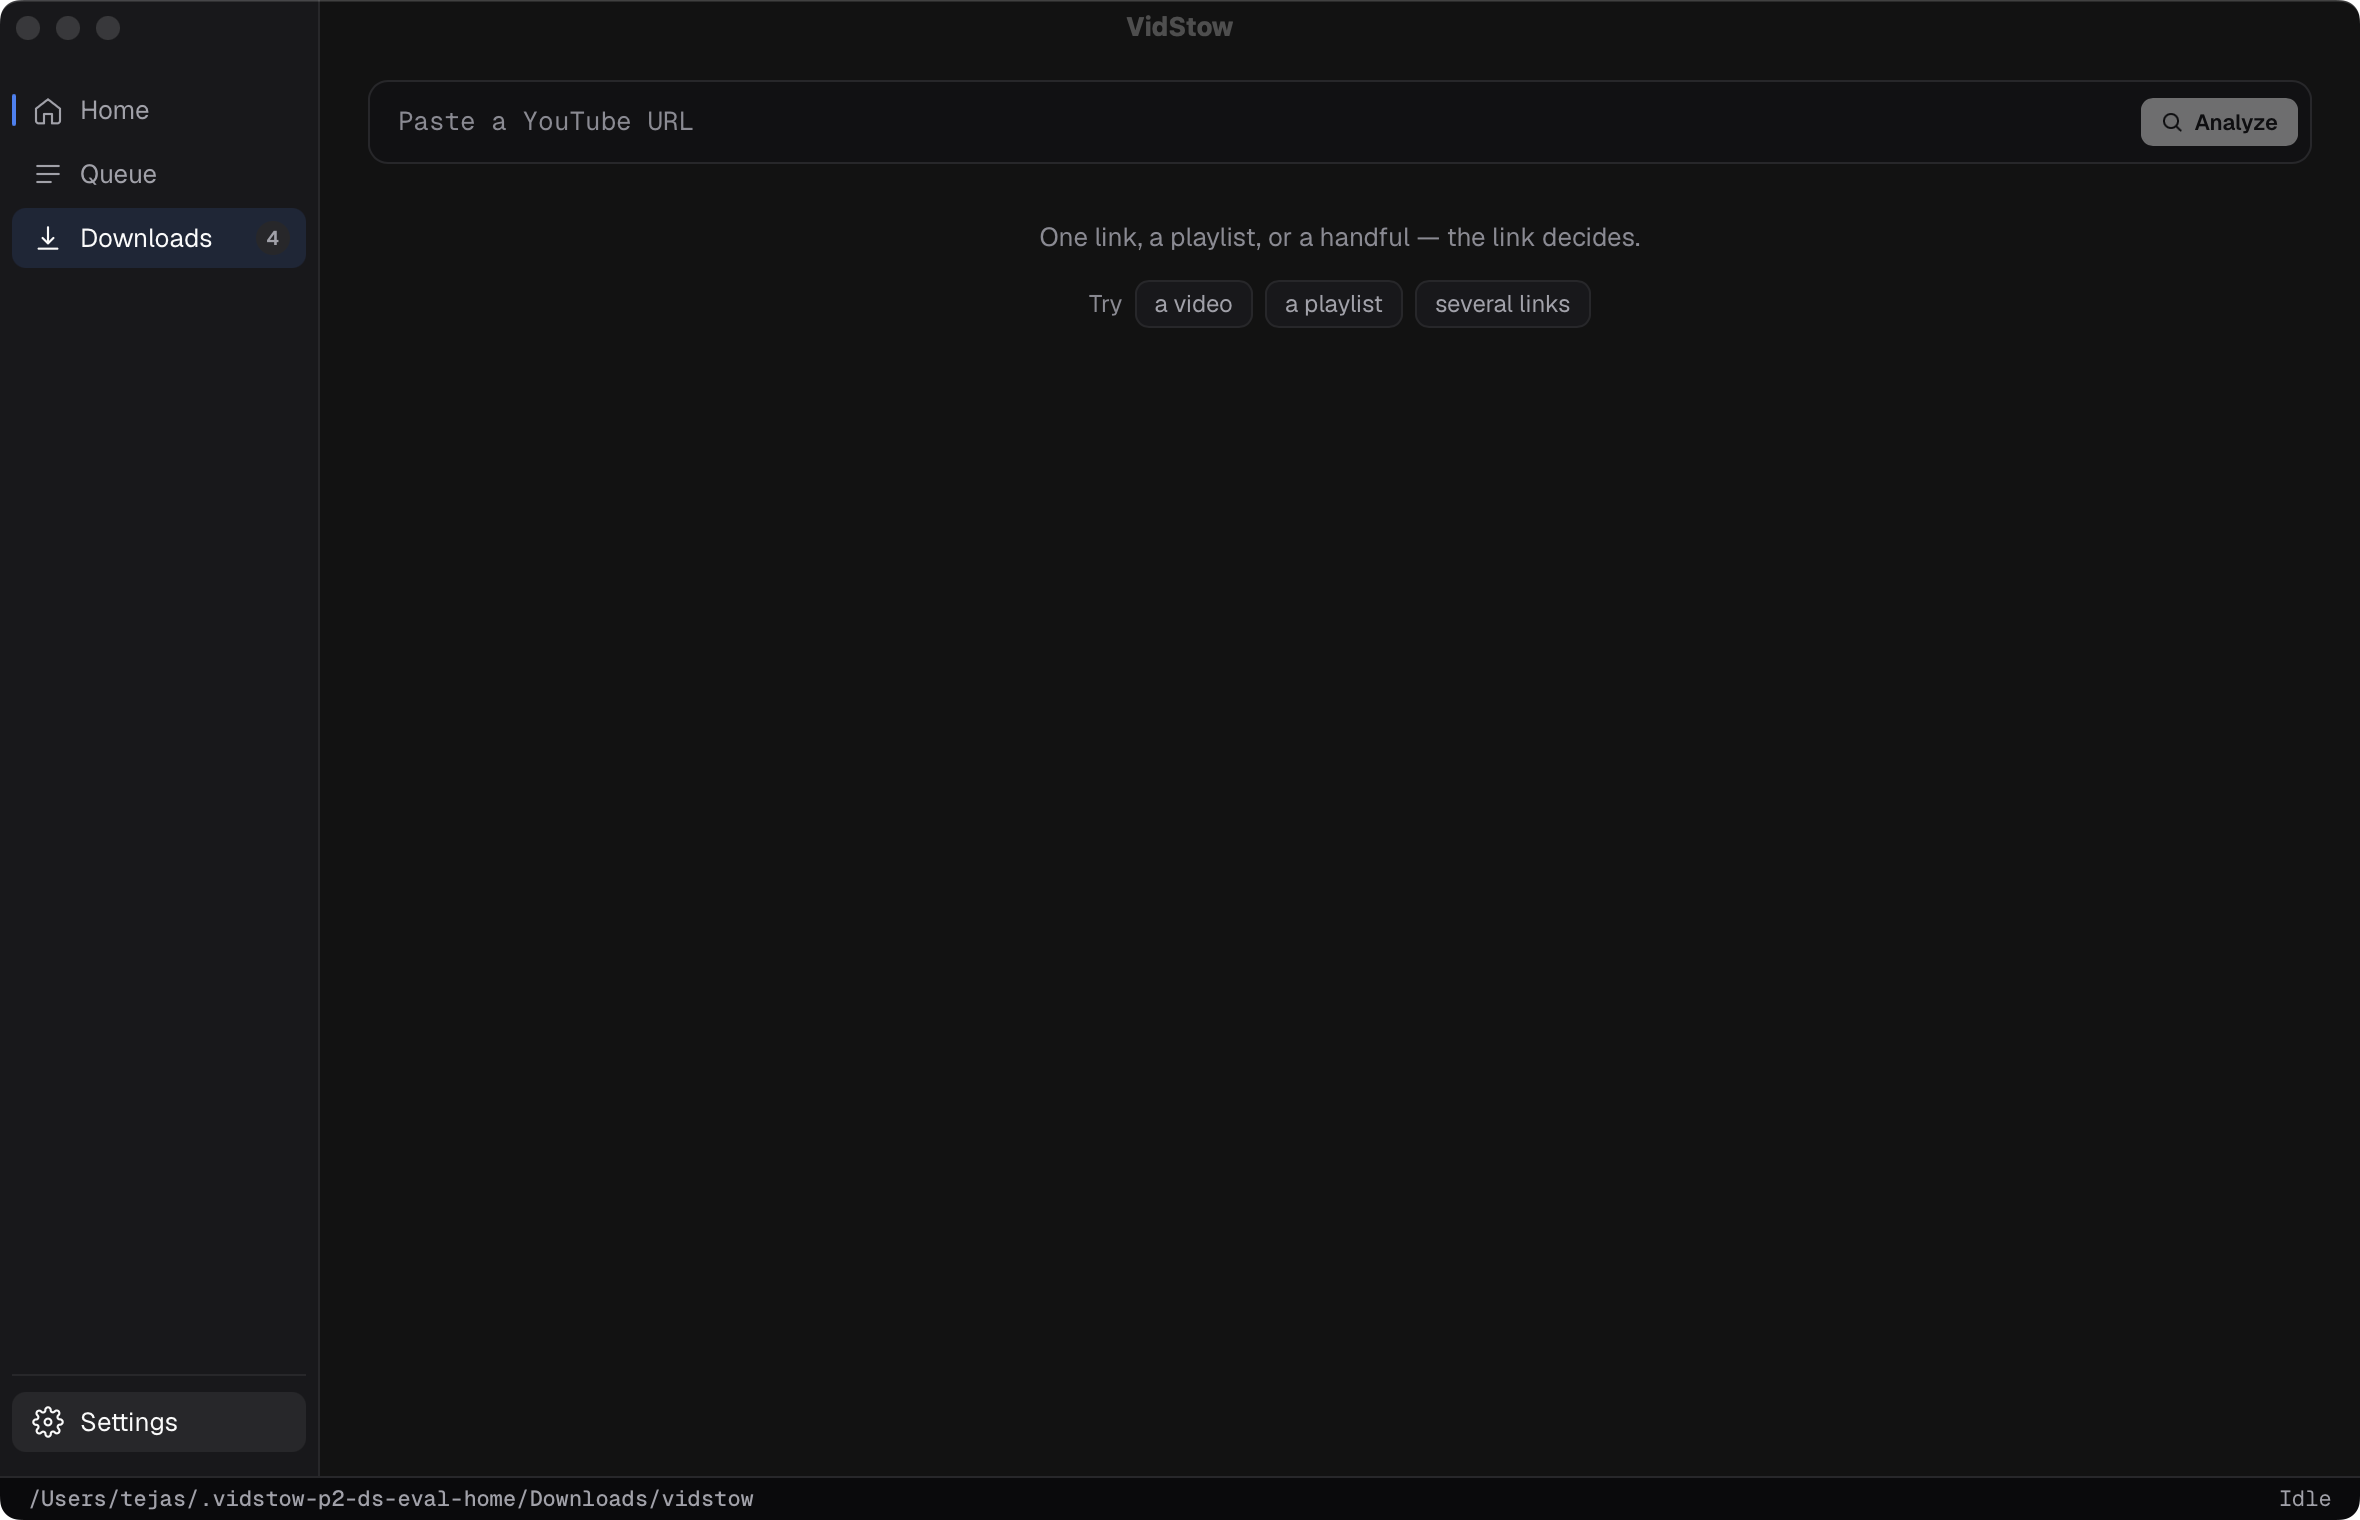
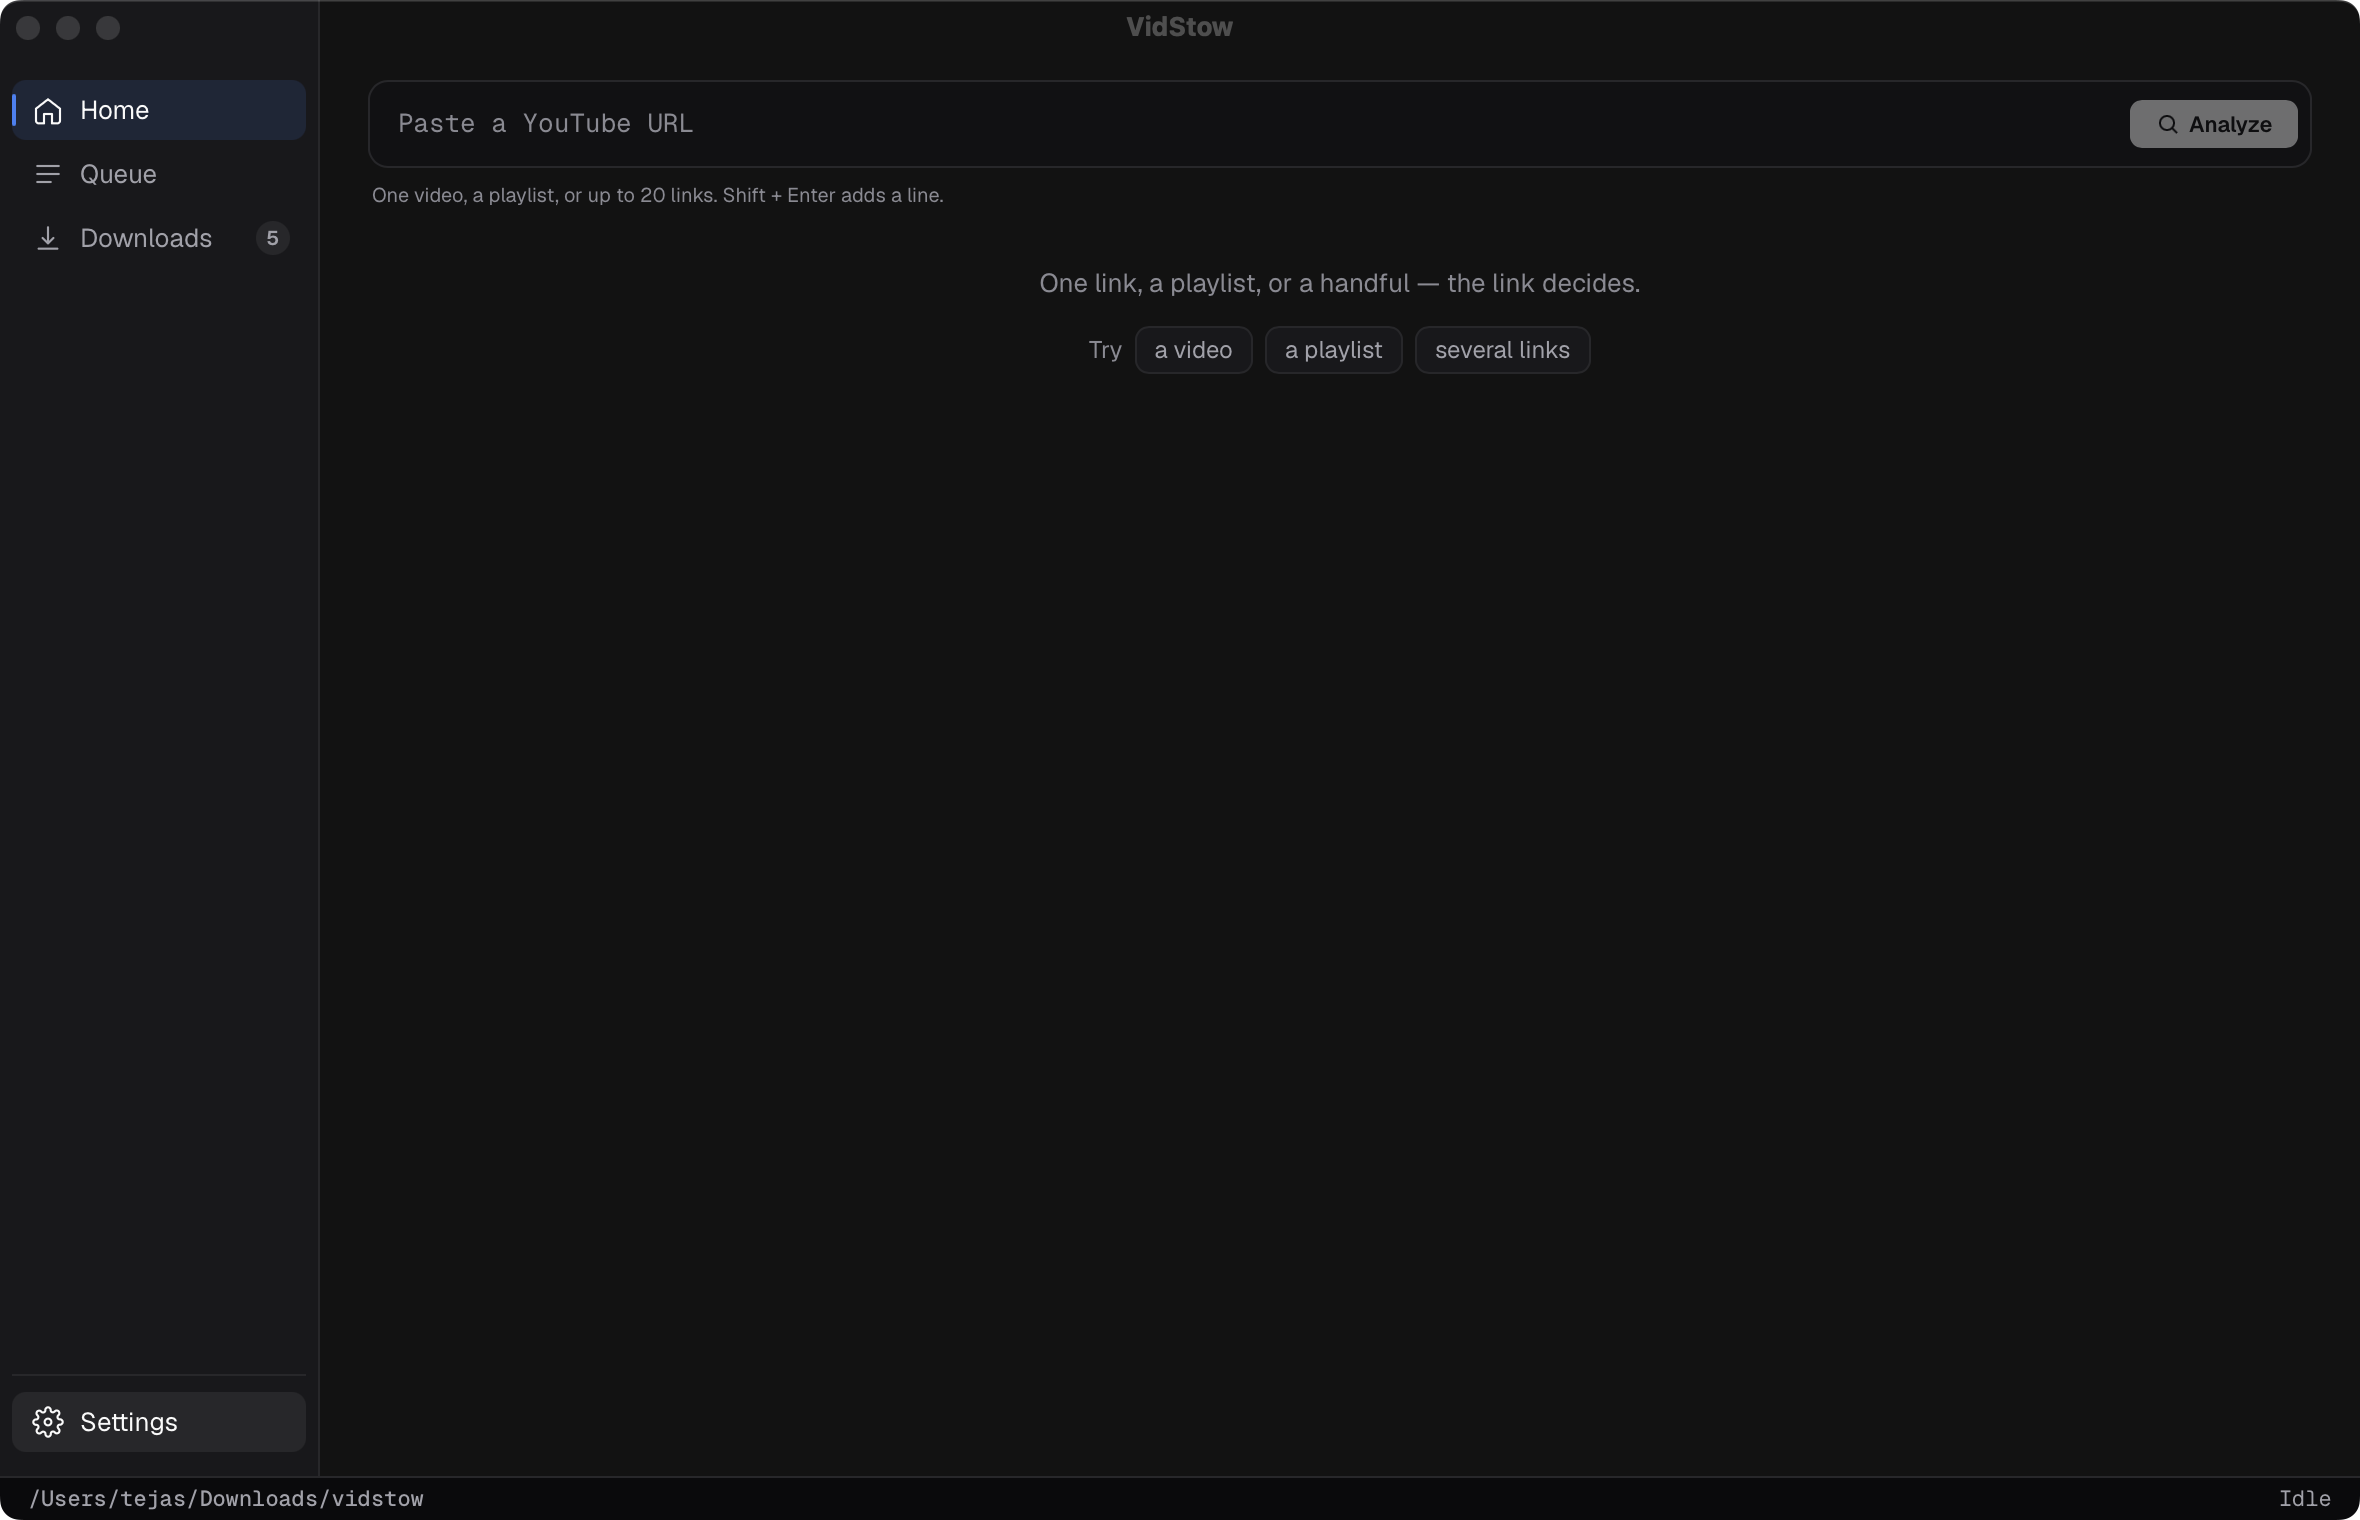
Update the README for the zinc window, File and Embed, and Settings language.
The feature list and screenshots now match Home, Queue, Downloads, and Settings as they ship, including inspector rows and no confirm-before-download switch.

diff --git a/README.md b/README.md
@@ -13,7 +13,7 @@ A local desktop application built with Go, Wails, and Svelte.
 [![Go](https://img.shields.io/badge/Go-1.25-00ADD8?logo=go&logoColor=white)](go.mod)
 [![Wails](https://img.shields.io/badge/Wails-v2-CB2D3E)](https://wails.io/)
 [![Svelte](https://img.shields.io/badge/Svelte-5-FF3E00?logo=svelte&logoColor=white)](frontend/package.json)
-[![Engine](https://img.shields.io/badge/youtube__dlp-pinned-20232A)](go.mod)
+[![Engine](https://img.shields.io/badge/ytdlp--go-v0.3.0-20232A)](go.mod)
 
 [Download](#download) · [Features](#features) · [Screenshots](#screenshots) · [Project status](#project-status) · [Run locally](#run-locally) · [How it works](#how-it-works) · [Contributing](CONTRIBUTING.md)
 
@@ -58,42 +58,54 @@ verification details.
 
 ## Features
 
-- **Analyze before downloading** — inspect the title, thumbnail, duration,
-  channel, and available output choices.
-- **Flexible link input** — paste, type, or drag and drop a public YouTube video,
-  Short, or playlist URL. Links containing both a video and a playlist can be
-  reviewed as either.
-- **Focused output choices** — choose best available video, capped resolutions,
-  original audio, or MP3 when the analyzed media supports those choices.
+The window is a dark zinc workstation. **VidStow** lives in the native title
+bar. The sidebar is **Home**, **Queue**, and **Downloads**, with **Settings**
+at the bottom. About is the colophon on Settings, not a rail item.
+
+- **One paste field on Home** — paste, type, or drop a public YouTube video,
+  Short, or playlist URL. Compact **Try** chips fill a video, a playlist, or
+  several links. **Analyze** is the only submit. While it runs, **Analyze**
+  becomes **Stop**. After 12 seconds Home notes the check is taking longer.
+  A link that is both a video and a playlist asks which one to open.
+- **Output, Subtitles, and In the file** — after Analyze, the card shows format
+  chips plus **Off** / **File** / **Embed**. **File** saves a caption next to
+  the video. **Embed** writes captions inside the video, so the folder still
+  shows one MP4. **In the file** is title and channel, artwork, and chapters.
+  Audio greys **Subtitles** in place and labels the row **Video only**. Artwork
+  embed is skipped for now.
+- **Settings default language** — **Video files** can set **Subtitles on new
+  adds** and a **Default subtitle language** (**English or first available** or
+  a named language such as **Spanish**). That choice prefills Home. On a
+  playlist or batch, a title without the language on the card uses the Settings
+  language, then English or first available. VidStow does not write two caption
+  files for one video.
 - **Playlist review** — select up to 500 available entries, apply a bounded
-  index range, and admit the collection as one expandable parent with individual
-  jobs. Playlist search is not on this list yet.
-- **Reliable batch downloads** — review 2–20 individual video or Short URLs at
-  once, identify invalid and duplicate lines, then atomically admit every ready
-  item under one durable expandable queue parent.
-- **FIFO queue** — configure 1–10 concurrent downloads; the default is 2.
-  Occupancy is shown beside the Queue title and in the status bar.
+  index range, and add the collection as one expandable parent. **Download**
+  turns into **Adding** so a second click cannot queue the same list twice.
+  Playlist search is not on this list yet.
+- **Batch of 2–20 links** — review individual video or Short URLs together,
+  see invalid and duplicate lines, then add every ready item under one parent.
+  More than 20 URLs stays on Home.
+- **Queue** — 1–10 concurrent downloads; the default is 2. In progress, Needs
+  attention, and canceled attempts are separate sections. Finished files live
+  on **Downloads**. Rows show quality and only the actions the app currently
+  allows. An HTTP 429 says **YouTube asked VidStow to slow down**, not that the
+  connection dropped.
 - **Continue in-progress work** — ordinary quit leaves an in-progress download
   running. It continues the next time VidStow opens. Waiting stays waiting.
-  Paused stays paused. Pause downloads and quit records paused intent first.
-- **Explicit lifecycle controls** — each queue row presents only the Pause,
-  Resume, Cancel, Retry, Start again, source, Open, or removal actions authorized
-  by the application; Pause All is available for eligible queued work.
-- **Durable application state** — State v2 stores queue lifecycle, settings,
-  reservations, history, and pending cleanup obligations.
-- **Persistent download history** — completed downloads remain available across
-  app launches, with search, file actions, expandable details, and removal
-  controls.
+  Paused stays paused. **Pause downloads and quit** records paused intent first.
+  Home **Download** queues immediately; there is no confirm step except a
+  playlist with more than 100 selected videos.
+- **Downloads** — completed files stay across launches, with search, **Open**,
+  **Reveal**, expandable details, and removal.
 - **Conservative recovery** — an unreadable queue is skipped without freezing
   the app. An unwritable or unsafe data folder is a small cannot-save stop.
-  Corrupt, unsafe, contended, unavailable, or indeterminate evidence does not
-  authorize automatic destructive mutation.
-- **Destination reservations** — related artifacts for a job receive one
-  collision decision, and an unrelated destination is not silently replaced.
-- **External FFmpeg support** — VidStow detects FFmpeg and FFprobe on `PATH`,
-  in Homebrew's default prefixes, or via a user-selected FFmpeg/FFprobe pair.
-- **Focused engine composition** — the desktop application supports only its
-  explicitly exposed YouTube workflow, not the engine's wider extractor catalog.
+- **FFmpeg** — VidStow detects FFmpeg and FFprobe on `PATH`, in Homebrew's
+  default prefixes, or via a user-selected pair. Most video plans, MP3, captions,
+  and embedded details need it.
+- **Focused engine** — the desktop app supports only this YouTube workflow, not
+  the engine's wider extractor catalog. Live streams, channels, search, and
+  sign-in are out of scope.
 
 ### Lifecycle boundaries
 
@@ -110,33 +122,49 @@ required instead of claiming success.
 
 ## Screenshots
 
+The shots below are the zinc window: native title **VidStow**, **Home** /
+**Queue** / **Downloads** in the rail, **Settings** at the bottom.
+
 <table>
   <tr>
     <td width="50%">
       <strong>Home</strong><br>
-      Paste a public YouTube URL, try an example, analyze, and choose an output.
-      Download goes to Queue.<br><br>
+      One paste field, <strong>Analyze</strong>, and <strong>Try</strong> chips
+      for a video, a playlist, or several links.<br><br>
       <img src="docs/assets/screenshots/home.png" alt="VidStow Home with one URL field, Analyze, and Try chips for a video, a playlist, and several links">
     </td>
     <td width="50%">
-      <strong>Queue</strong><br>
-      Occupancy, lifecycle status, progress, and available actions. The empty
-      header shows how many slots are in use.<br><br>
-      <img src="docs/assets/screenshots/queue-lifecycle.png" alt="VidStow empty Queue showing 0 of 2 slots in use">
+      <strong>After Analyze</strong><br>
+      Inspector rows for <strong>Output</strong>, <strong>Subtitles</strong>
+      (<strong>Off</strong> / <strong>File</strong> / <strong>Embed</strong>),
+      and <strong>In the file</strong>. <strong>Download</strong> goes to
+      Queue.<br><br>
+      <img src="docs/assets/screenshots/home-card.png" alt="VidStow Home after Analyze, with Output, Subtitles Off File Embed, and In the file">
     </td>
   </tr>
   <tr>
     <td width="50%">
-      <strong>Downloads</strong><br>
-      Search completed files, open them, or reveal them in the system file
-      manager.<br><br>
-      <img src="docs/assets/screenshots/downloads.png" alt="VidStow Downloads page showing relative time, Open, and an expandable row">
+      <strong>Queue</strong><br>
+      Slot occupancy sits beside the title. Empty Queue points back to Home.
+      When there is work, in-progress rows, Needs attention, and canceled
+      attempts stay in separate sections.<br><br>
+      <img src="docs/assets/screenshots/queue-lifecycle.png" alt="VidStow empty Queue showing 0 of 2 slots in use, with Go to Home">
     </td>
     <td width="50%">
+      <strong>Downloads</strong><br>
+      Finished files, grouped by day, with <strong>Open</strong> and
+      <strong>Reveal</strong>. Search stays on the page.<br><br>
+      <img src="docs/assets/screenshots/downloads.png" alt="VidStow Downloads page showing relative time, Open, and Reveal">
+    </td>
+  </tr>
+  <tr>
+    <td colspan="2">
       <strong>Settings</strong><br>
-      Download folder, concurrency, in-progress continues, FFmpeg, and
-      diagnostics. The colophon sits at the bottom.<br><br>
-      <img src="docs/assets/screenshots/settings-lifecycle.png" alt="VidStow Settings showing General, Performance, and Advanced with In progress continues">
+      Download folder, <strong>In progress continues</strong>, concurrency,
+      <strong>Video files</strong> (captions and default language), FFmpeg, and
+      diagnostics. The colophon sits at the bottom. There is no confirm-before-download
+      switch; Home <strong>Download</strong> queues immediately.<br><br>
+      <img src="docs/assets/screenshots/settings-lifecycle.png" alt="VidStow Settings showing General, Performance, Video files, and In progress continues">
     </td>
   </tr>
 </table>
@@ -231,7 +259,9 @@ lifecycle authority from status text.
 VidStow stores application state in the operating system's per-user
 configuration directory. State v2 can include:
 
-- settings, including the selected download folder and an optional FFmpeg path;
+- settings, including the selected download folder, an optional FFmpeg path,
+  and default caption choices (mode, language, sidecar format, auto-captions,
+  and embed flags);
 - canonical public YouTube watch URLs and video IDs;
 - display metadata such as title, channel, duration, and selected quality;
 - job, attempt, session, queue, lifecycle, reservation, and cleanup records;
